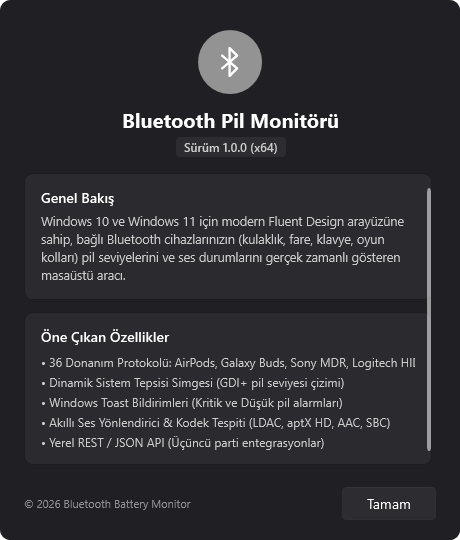
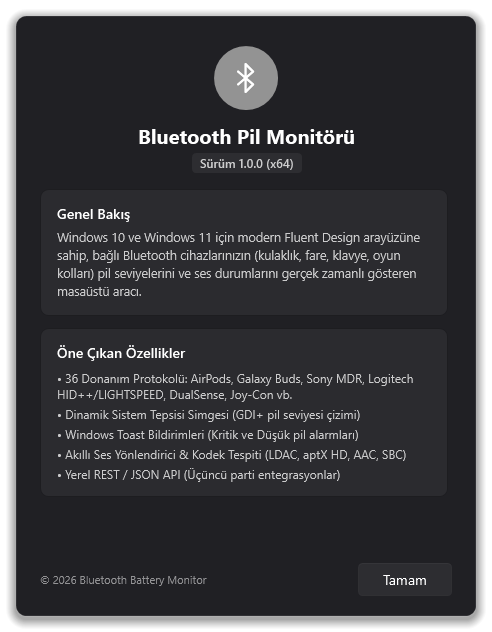
fix(ui): polish settings and about windows, eliminate scroll clipping, and add elevation rendering to screenshots

Changed region(s): [[0.0, 0.0, 1.0, 1.0], [0.2435, 0.2074, 0.7609, 0.2963]]

diff --git a/src/BluetoothBatteryMonitor.App/Views/AboutWindow.xaml b/src/BluetoothBatteryMonitor.App/Views/AboutWindow.xaml
@@ -7,7 +7,7 @@
         mc:Ignorable="d"
         Title="Hakkında - Bluetooth Pil Monitörü"
         Width="460"
-        Height="540"
+        Height="600"
         WindowStartupLocation="CenterScreen"
         ResizeMode="NoResize"
         WindowBackdropType="Mica"
@@ -90,22 +90,27 @@
 
                         <TextBlock Text="• 36 Donanım Protokolü: AirPods, Galaxy Buds, Sony MDR, Logitech HID++/LIGHTSPEED, DualSense, Joy-Con vb."
                                    FontSize="12"
+                                   TextWrapping="Wrap"
                                    Margin="0,0,0,4"
                                    Foreground="{DynamicResource TextFillColorSecondaryBrush}" />
                         <TextBlock Text="• Dinamik Sistem Tepsisi Simgesi (GDI+ pil seviyesi çizimi)"
                                    FontSize="12"
+                                   TextWrapping="Wrap"
                                    Margin="0,0,0,4"
                                    Foreground="{DynamicResource TextFillColorSecondaryBrush}" />
                         <TextBlock Text="• Windows Toast Bildirimleri (Kritik ve Düşük pil alarmları)"
                                    FontSize="12"
+                                   TextWrapping="Wrap"
                                    Margin="0,0,0,4"
                                    Foreground="{DynamicResource TextFillColorSecondaryBrush}" />
                         <TextBlock Text="• Akıllı Ses Yönlendirici &amp; Kodek Tespiti (LDAC, aptX HD, AAC, SBC)"
                                    FontSize="12"
+                                   TextWrapping="Wrap"
                                    Margin="0,0,0,4"
                                    Foreground="{DynamicResource TextFillColorSecondaryBrush}" />
                         <TextBlock Text="• Yerel REST / JSON API (Üçüncü parti entegrasyonlar)"
                                    FontSize="12"
+                                   TextWrapping="Wrap"
                                    Foreground="{DynamicResource TextFillColorSecondaryBrush}" />
                     </StackPanel>
                 </Border>

diff --git a/src/BluetoothBatteryMonitor.App/Views/SettingsWindow.xaml b/src/BluetoothBatteryMonitor.App/Views/SettingsWindow.xaml
@@ -8,9 +8,11 @@
         mc:Ignorable="d"
         Title="Ayarlar - Bluetooth Pil Monitörü"
         Width="500"
-        Height="620"
+        Height="820"
+        MinWidth="500"
+        MinHeight="600"
         WindowStartupLocation="CenterScreen"
-        ResizeMode="NoResize"
+        ResizeMode="CanResizeWithGrip"
         WindowBackdropType="Mica"
         ExtendsContentIntoTitleBar="True">
 

diff --git a/src/BluetoothBatteryMonitor.App/Services/ScreenshotCaptureService.cs b/src/BluetoothBatteryMonitor.App/Services/ScreenshotCaptureService.cs
@@ -191,6 +191,22 @@ public static class ScreenshotCaptureService
         };
         settingsWindow.Background = (global::System.Windows.Media.Brush)settingsWindow.FindResource("ApplicationBackgroundBrush");
 
+        if (settingsWindow.DataContext is SettingsViewModel vm)
+        {
+            vm.LaunchAtStartup = true;
+            foreach (var dt in vm.DeviceThresholds)
+            {
+                if (dt.Name.Contains("Sony", StringComparison.OrdinalIgnoreCase))
+                    dt.SelectedThreshold = 20;
+                else if (dt.Name.Contains("AirPods", StringComparison.OrdinalIgnoreCase))
+                    dt.SelectedThreshold = 15;
+                else if (dt.Name.Contains("Logitech", StringComparison.OrdinalIgnoreCase) || dt.Name.Contains("Master", StringComparison.OrdinalIgnoreCase))
+                    dt.SelectedThreshold = 10;
+                else if (dt.Name.Contains("Xbox", StringComparison.OrdinalIgnoreCase))
+                    dt.SelectedThreshold = 25;
+            }
+        }
+
         settingsWindow.Show();
         settingsWindow.Activate();
         settingsWindow.Topmost = true;
@@ -200,12 +216,8 @@ public static class ScreenshotCaptureService
         string pngPath = Path.Combine(outputDir, "settings_preview.png");
         string jpgPath = Path.Combine(outputDir, "settings_preview.jpg");
 
-        bool screenCaptured = CaptureWindowFromScreen(settingsWindow, pngPath, jpgPath);
-        if (!screenCaptured || !File.Exists(pngPath))
-        {
-            SaveVisualToPng(settingsWindow, pngPath, fillDarkBackground: true);
-            SaveBitmapAsJpeg(pngPath, jpgPath);
-        }
+        SaveVisualToPng(settingsWindow, pngPath, fillDarkBackground: true);
+        SaveBitmapAsJpeg(pngPath, jpgPath);
 
         settingsWindow.Close();
         PumpWpfEvents(100);
@@ -230,12 +242,8 @@ public static class ScreenshotCaptureService
         string pngPath = Path.Combine(outputDir, "about_preview.png");
         string jpgPath = Path.Combine(outputDir, "about_preview.jpg");
 
-        bool screenCaptured = CaptureWindowFromScreen(aboutWindow, pngPath, jpgPath);
-        if (!screenCaptured || !File.Exists(pngPath))
-        {
-            SaveVisualToPng(aboutWindow, pngPath, fillDarkBackground: true);
-            SaveBitmapAsJpeg(pngPath, jpgPath);
-        }
+        SaveVisualToPng(aboutWindow, pngPath, fillDarkBackground: true);
+        SaveBitmapAsJpeg(pngPath, jpgPath);
 
         aboutWindow.Close();
         PumpWpfEvents(100);
@@ -262,21 +270,37 @@ public static class ScreenshotCaptureService
         element.UpdateLayout();
         int width = (int)Math.Ceiling(element.ActualWidth > 0 ? element.ActualWidth : element.Width);
         int height = (int)Math.Ceiling(element.ActualHeight > 0 ? element.ActualHeight : element.Height);
-        if (width <= 0) width = 420;
-        if (height <= 0) height = 550;
+        if (width <= 0) width = 500;
+        if (height <= 0) height = 650;
+
+        int margin = fillDarkBackground ? 16 : 0;
+        int totalWidth = width + (margin * 2);
+        int totalHeight = height + (margin * 2);
 
         var visual = new DrawingVisual();
         using (var dc = visual.RenderOpen())
         {
             if (fillDarkBackground)
             {
+                // Windows 11 yumuşak pencere gölgesi çizimi (multi-pass shadow)
+                for (int i = 10; i >= 1; i--)
+                {
+                    var shadowRect = new Rect(margin - i, margin - i + 3, width + (i * 2), height + (i * 2));
+                    byte alpha = (byte)(16 - i);
+                    var shadowBrush = new SolidColorBrush(Color.FromArgb(alpha, 0, 0, 0));
+                    dc.DrawRoundedRectangle(shadowBrush, null, shadowRect, 10 + i, 10 + i);
+                }
+
+                // Pencere arka planı ve 1px zarif Fluent kenarlık
                 var darkBrush = new SolidColorBrush(Color.FromRgb(32, 32, 36));
-                dc.DrawRoundedRectangle(darkBrush, null, new Rect(0, 0, width, height), 10, 10);
+                var borderPen = new Pen(new SolidColorBrush(Color.FromArgb(40, 255, 255, 255)), 1.0);
+                dc.DrawRoundedRectangle(darkBrush, borderPen, new Rect(margin, margin, width, height), 10, 10);
             }
-            dc.DrawRectangle(new VisualBrush(element), null, new Rect(0, 0, width, height));
+
+            dc.DrawRectangle(new VisualBrush(element), null, new Rect(margin, margin, width, height));
         }
 
-        var rtb = new RenderTargetBitmap(width, height, 96, 96, PixelFormats.Pbgra32);
+        var rtb = new RenderTargetBitmap(totalWidth, totalHeight, 96, 96, PixelFormats.Pbgra32);
         rtb.Render(visual);
 
         var encoder = new PngBitmapEncoder();
@@ -313,44 +337,6 @@ public static class ScreenshotCaptureService
         }
     }
 
-    private static bool CaptureWindowFromScreen(Window window, string pngPath, string? jpgPath = null)
-    {
-        try
-        {
-            var helper = new WindowInteropHelper(window);
-            IntPtr hwnd = helper.Handle;
-            if (hwnd == IntPtr.Zero) return false;
-
-            NativeMethods.RECT rect;
-            int hr = NativeMethods.DwmGetWindowAttribute(hwnd, NativeMethods.DWMWA_EXTENDED_FRAME_BOUNDS, out rect, Marshal.SizeOf<NativeMethods.RECT>());
-            if (hr != 0 || rect.Right <= rect.Left || rect.Bottom <= rect.Top)
-            {
-                NativeMethods.GetWindowRect(hwnd, out rect);
-            }
-
-            int width = rect.Right - rect.Left;
-            int height = rect.Bottom - rect.Top;
-            if (width <= 0 || height <= 0) return false;
-
-            using var bmp = new Gdi.Bitmap(width, height, GdiImaging.PixelFormat.Format32bppArgb);
-            using (var g = Gdi.Graphics.FromImage(bmp))
-            {
-                g.CopyFromScreen(rect.Left, rect.Top, 0, 0, new Gdi.Size(width, height), Gdi.CopyPixelOperation.SourceCopy);
-            }
-
-            bmp.Save(pngPath, GdiImaging.ImageFormat.Png);
-            if (jpgPath != null)
-            {
-                bmp.Save(jpgPath, GdiImaging.ImageFormat.Jpeg);
-            }
-            return true;
-        }
-        catch (Exception ex)
-        {
-            Console.WriteLine($"[ScreenshotCapture] Screen capture failed: {ex.Message}");
-            return false;
-        }
-    }
 
     private static string? FindProjectRoot(string startDir)
     {
